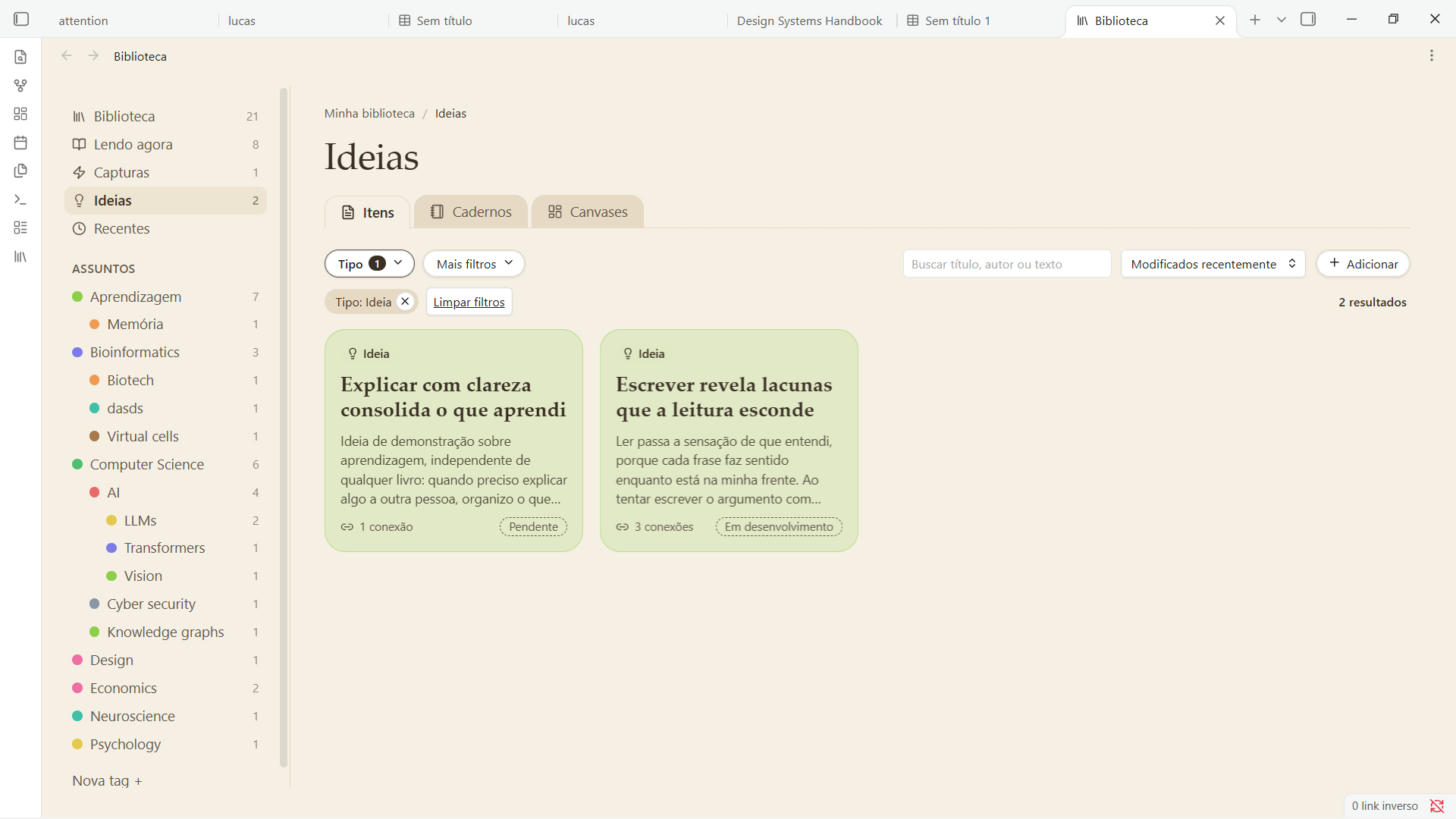
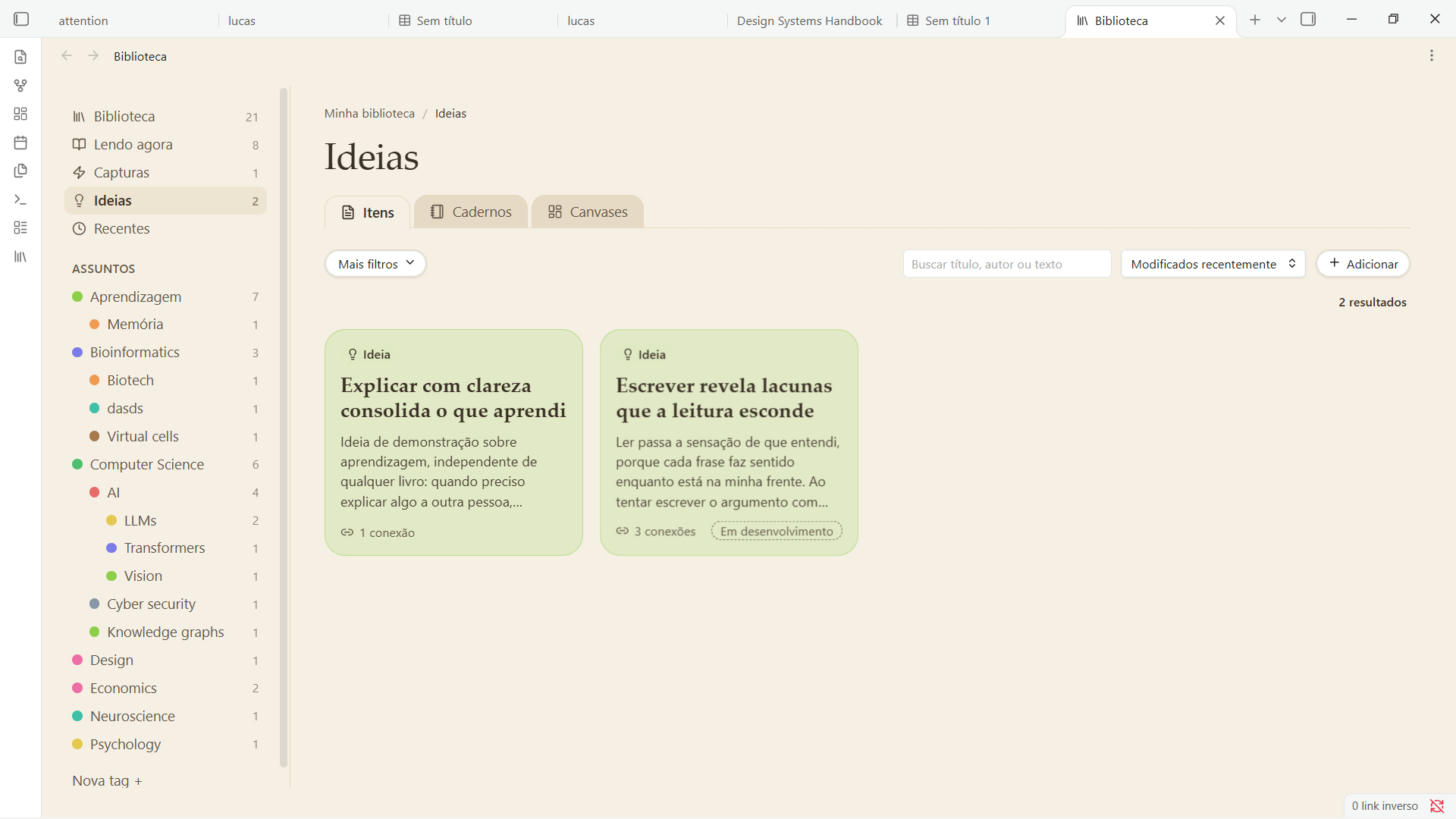
docs: update screenshots, properties and changelog for the refinement

Changed region(s): [[0.2163, 0.4274, 0.5872, 0.7021], [0.2163, 0.3053, 0.3709, 0.3968]]

diff --git a/README.md b/README.md
@@ -12,7 +12,7 @@ A library to follow what you are **reading** and what you are **thinking** from 
 - **Views** in the sidebar (Library, Reading now, Captures, Ideas, Recent) and a tree of subjects with colors and counts. Views are filters over the same notes, not folders.
 - **Compact filters**: Type, Reading status, Authors and More filters (subject, format, linked source, elaboration, connections). Combine them freely; active filters show as removable chips with the result count.
 - **Reading page** for every note, with a Back button that restores filters and scroll. Select a passage to highlight it or turn it into a **reading note** that keeps its source and location; passage and your own words are drawn as separate blocks.
-- **Develop idea** opens a window with the origin note and a simple way to link other notes. Nothing is written for you.
+- **Develop idea** opens a writing-first window: the idea as a full-width sentence, a large area for your argument, the origin note as a collapsed reminder and linked notes as chips. Everything works by keyboard (Ctrl+Enter saves). Nothing is written for you, and an idea has no elaboration state unless you set one.
 - Pastel cards and notes tinted by subject color, drag to reorder cards, animated filtering, Portuguese and English, light and dark themes.
 
 See [docs/PROPERTIES.md](docs/PROPERTIES.md) for the properties each type uses.
@@ -20,6 +20,7 @@ See [docs/PROPERTIES.md](docs/PROPERTIES.md) for the properties each type uses.
 ![Library](assets/images/screenshots/library-overview.jpg)
 ![Source page](assets/images/screenshots/source-page.jpg)
 ![Reading note](assets/images/screenshots/reading-note.jpg)
+![Develop idea window](assets/images/screenshots/idea-window.jpg)
 
 ## Not yet
 

diff --git a/CHANGELOG.md b/CHANGELOG.md
@@ -4,6 +4,15 @@ All notable changes to this project are documented here. The format follows [Kee
 
 ## [Unreleased]
 
+### Changed
+
+- Writing windows (idea, reading note, quick capture) redesigned for writing: full-width title, large editor, collapsed origin, linked notes as chips, visible Save and Cancel, keyboard-complete.
+- Windows use the library look (cream paper, serif titles, pill buttons) in light and dark themes.
+- Cards show the format (Book, Article, Video) instead of repeating "Source".
+- A view defines its own type: Ideas, Captures and Reading now show no redundant Type filter or chip.
+- Ideas have no elaboration state by default (optional); captures stay pending.
+- Larger, higher-contrast secondary text, also in the dark theme.
+
 ### Added
 
 - Content types (source, reading note, idea, quick capture) with their own cards.

diff --git a/docs/PROPERTIES.md b/docs/PROPERTIES.md
@@ -21,7 +21,9 @@ Portuguese aliases are accepted: `fonte`, `nota-de-leitura`, `ideia`, `captura`,
 - **Reading status** (`status`) is about the *source*: `want`, `reading`, `paused`, `done`.
   When absent it is inferred from `pages` and `current_page` so older notes keep working.
 - **Elaboration** (`elaboration`) is about *your notes*: `pending`, `developing`, `done`.
-  A finished book can still have notes in development.
+  A finished book can still have notes in development. Captures and reading notes
+  default to `pending`; **ideas have no state unless you set one**, so a new idea is
+  not treated as unfinished work.
 
 ## Source formats (`format`)
 

diff --git a/dev-vault/Library/Explicar com clareza consolida o que aprendi.md b/dev-vault/Library/Explicar com clareza consolida o que aprendi.md
@@ -1,7 +1,6 @@
 ---
 type: idea
 title: Explicar com clareza consolida o que aprendi
-elaboration: pending
 created: 2026-10-27
 category: Aprendizagem
 demo: true
